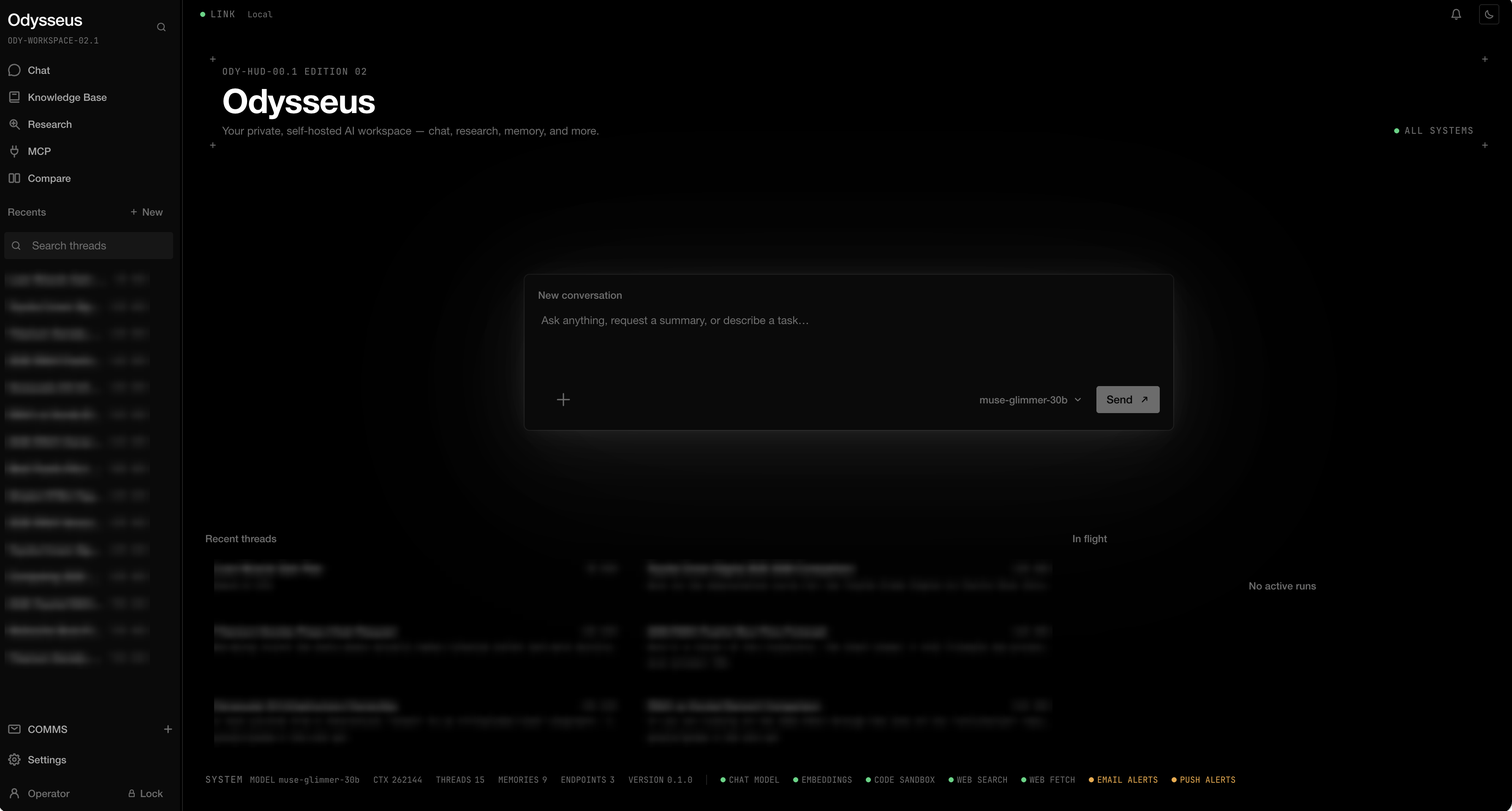
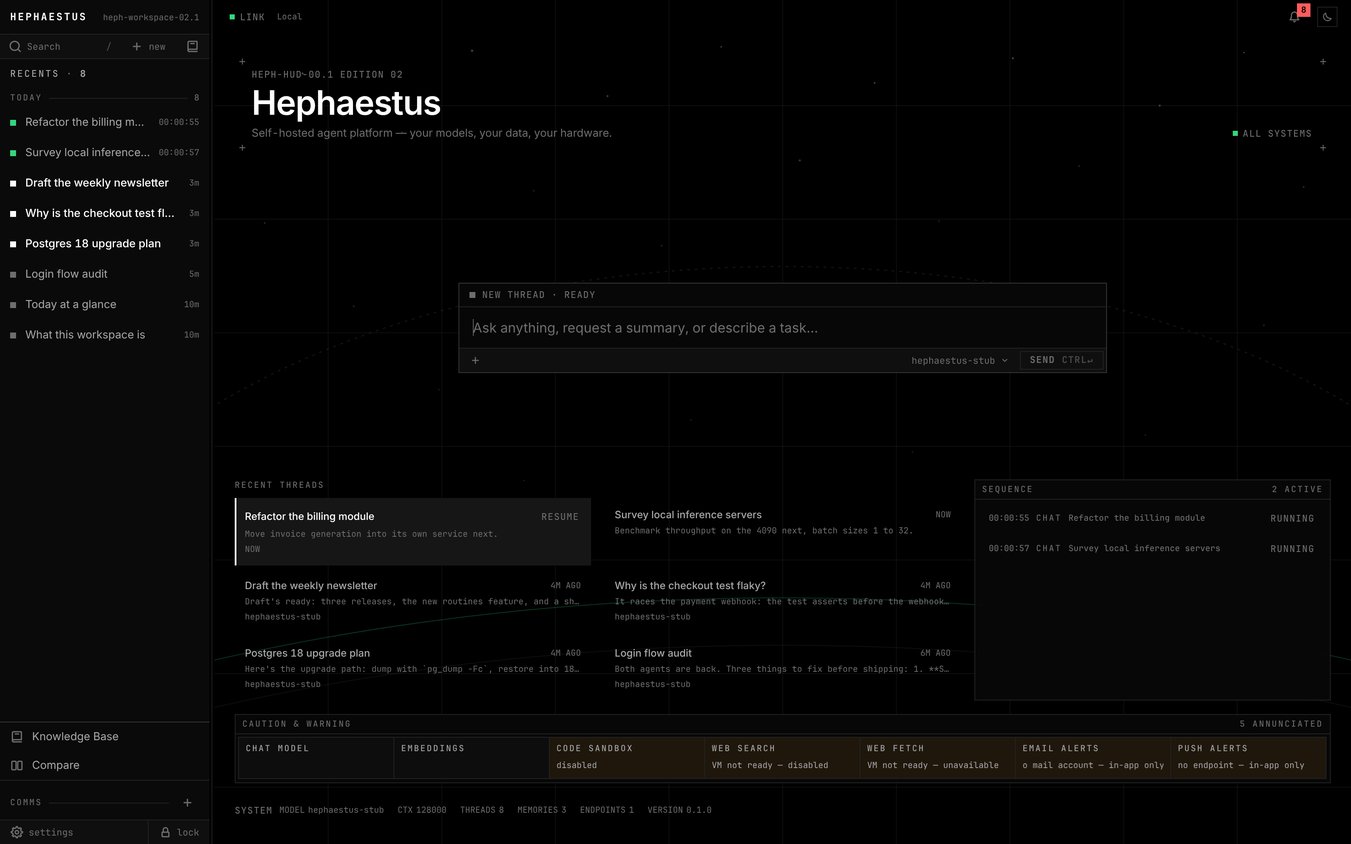
Rewrote the README for the agent platform and retook its screenshot
- The README leads with a console-style readout and covers agents, delegation,
  plugins, skills, routines, platform search, the VM and per-endpoint queueing.
- The screenshot is the home page with threads and runs in flight.
- The home page tagline now describes the platform.

diff --git a/frontend/src/features/dashboard/screens/DashboardScreen.tsx b/frontend/src/features/dashboard/screens/DashboardScreen.tsx
@@ -195,7 +195,7 @@ export function DashboardScreen(): JSX.Element {
     <div class="flex min-h-full flex-col gap-6">
       <PageHeader
         title="Hephaestus"
-        subtitle="Your private, self-hosted AI workspace — chat, code, memory, and more."
+        subtitle="Self-hosted agent platform — your models, your data, your hardware."
         assetId="HEPH-HUD-00.1 EDITION 02"
         actions={
           <Show

diff --git a/README.md b/README.md
@@ -1,185 +1,168 @@
 # Hephaestus
-───────────────────────────────────────────────
-
- ⊹ ࣪ ˖ ૮( ˶ᵔ ᵕ ᵔ˶ )っ  Hephaestus (formerly Odysseus)
-
-───────────────────────────────────────────────
-
-A self-hosted agent platform that runs on your own hardware against your own data: a legion of language models that carry out your bidding, so you can build and ship things far larger than one person could alone. Local-first, encrypted at rest, built for personal use (1 user).
-
-![Hephaestus — the home overview: the launchpad composer, recent threads, in-flight runs, and live per-capability status along the bottom. Thread titles and previews are blurred; this is a live workspace.](md-assets/hephaestus-screenshot.png)
-
-I rebuilt the entire platform on top of **Pydantic AI + FastAPI**. The agent loop is done and so is most of the workspace around it: chat with sub-agents, a knowledge base, email, calendar, routines, projects the agent works in directly, memory, MCP, a secrets vault, and encrypted backup all run today. What's left is a short list, and it's at the bottom.
-
-## The idea
-
-**Pydantic AI is the engine; the code I wrote around it is the chassis.** All agentic reasoning — the model call, tool selection, typed-arg validation, the within-turn tool→observe→continue loop, retries, fallback, output validation, history processing — runs *through* Pydantic AI. Everything that turns one model run into a durable, observable, resumable product — run lifecycle, the event stream, disconnect-survival and resume, cancellation, timeouts, persistence, access policy, the verifier/loop-break meta-loop — is what I built. Like I said up top, Hephaestus assumes one powerful local host, a single operator, and models capable of native tool calling.
-
-## What runs today
-
-**The core loop.**
-
-- **Chat.** Every message runs the full agent path rather than a pre-classified route: the model sees the whole permitted tool catalog and decides what to call. Replies stream incrementally, survive a disconnect, and resume on reconnect. Conversations branch through regenerate, edit, and rewind.
-- **The agent engine.** A Pydantic AI `Agent` driven node by node, wrapped in a meta-loop — an always-on no-progress guard plus an opt-in post-turn verifier — with first-turn auto-titling.
-- **Sensitive-action approval.** A powerful tool call parks the run and asks before it executes; approving or denying resumes it. Approvals can be scoped to a conversation, and those grants are listable and revocable.
-- **The agent's task list.** The model keeps a visible plan for the turn, streamed as it mutates.
-- **Conversation compaction.** The one context reduction in the product, and it fires on measured pressure: when a thread reaches your share of the model's context window, earlier turns fold into a utility-model summary and the chat carries on. The transcript keeps everything — only the model's replay narrows.
-
-**Work surfaces.**
-
-- **Projects.** A project is a directory you work in, and the whole app scopes to it. A chat filed under a project works in that folder, on the branch you have checked out, one chat at a time. When the work should stay apart from yours, the agent moves the chat onto a git worktree on a branch named for the thread, which reaches your folder only through a merge you press. Deleting a thread with unmerged commits is refused unless you say to discard it.
-- **Sandboxed code, the View, and previews.** The agent runs code in a platform microVM, confined to its own conversation's workspace, that fails closed and never touches the host, and publishes output to the View — one versioned surface where each result is a snapshot you can star and return to, optionally fronted by a live reverse-proxied head.
-- **Agents.** Write your own agents — a standing brief, a model, the tools it may use and how far it may reach — and run any chat with one, or let agents delegate to them. The agent can draft new ones too, which stay inert until you publish them. A project's `.claude/agents/*.md` files join the catalog while you work in it.
-- **Research, through sub-agents.** Any chat can investigate a question by fanning out parallel researcher sub-agents that cite the page behind every claim. It stays a conversation, so you can push back halfway through.
-- **Knowledge Base.** Point it at folders of your own documents and retrieve from them by meaning; sources, index stats, reindex and rebuild are all yours to drive.
-- **Uploads.** Files as context, through a sealed file store with off-request text extraction, corpus-indexed.
-- **Compare.** One prompt fanned to two models side by side — each pane a real, resumable conversation rather than a preview.
-- **Skills.** Know-how the agent opens when a task calls for it: built-in skills that ship with the app (research, delegation, building agents and plugins), a project's own `.claude/skills`, and skills you or the agent save.
-
-**Reach.**
-
-- **Web search and fetch.** A managed SearXNG instance with no operator setup, plus a headless browser in the platform VM that renders a page to Markdown. SSRF-guarded on every request; untrusted content is marked as data before it reaches a prompt.
-- **Email.** Multiple accounts over IMAP/SMTP, Gmail, Microsoft Graph or JMAP, with OAuth where the provider wants it — plus AI triage (urgency, tagging, summaries) and reply drafts that match how you actually write.
-- **Calendar.** Local-first, with CalDAV sync, `.ics` import/export, recurrence, and natural-language entry — "lunch Friday 1pm" becomes a draft, with the model reading the phrase and the code doing the date arithmetic.
-- **Routines.** Scheduled and webhook-triggered work that runs on time, each run by the agent you pick in a thread of its own, within a pre-authorized scope. Schedules can be typed as a phrase ("every weekday at 9"), agents can draft routines for you to approve, and plugins can offer them as templates. An out-of-scope sensitive action still parks for approval exactly like an interactive run.
-- **Notifications.** A second, separately-versioned event stream for approvals, failures, completions and reminders — and the two worth interrupting you for (an approval request and a reminder) also go out by email through your own connected mailbox and by push to whatever notifier you already run.
-- **MCP.** Register external tool servers; their tools are sensitive by default until you trust them.
-- **Integrations.** Preset connectors to third-party HTTP services, with encrypted credentials.
-
-**Your controls.**
-
-- **Model registry.** Named roles (`main`, `utility`, `embedding`) map to ordered fallback chains; endpoints discover their served models at runtime; conversations can override the model; keys are encrypted at rest. Each endpoint is typed by a provider adapter — OpenAI-compatible, or native Anthropic/Google.
-- **Long-term memory.** Store, view, edit and delete entries, with hybrid semantic-plus-keyword recall that degrades to keyword-only when the vector store is unavailable.
-- **Tool catalog.** Every registered tool is listed and individually switchable.
-- **Offline mode.** Manual or auto-detected; web capabilities suspend themselves and say so.
-- **Vault.** A password manager layered on the at-rest encryption; agent access is approval-gated.
-- **API tokens.** Scoped tokens and inbound webhooks for programmatic access.
-- **Backup and restore.** Encrypted export under a separate backup secret, with merge-import that avoids duplicates.
-- **Health.** Per-capability status covering model, embeddings, sandbox and search, derived in the backend and rendered on the home page.
-- **Auth and at-rest encryption.** A global auth gate (cookie or bearer); all user data AES-256 encrypted under a password-derived, memory-only, lock-until-unlocked key.
-
-## What's left
-
-- **Routine depth** — chaining one routine into another, and event triggers beyond the inbound webhook.
-- **The health screen** — it's the one surface still on fixtures. It wants per-service latency, a baseline and a status history, and the backend measures none of those yet. Real capability health lives at `/overview` and the home page renders it.
-
-## Out of scope, on purpose
-
-Some things were built and then deliberately removed, because they were redundant, better done elsewhere, or not worth their maintenance:
-
-- **Local model serving and the "Cookbook."** Hephaestus no longer downloads, quantizes or serves models. It works off **endpoints** — you point it at LM Studio, vLLM, llama.cpp or a hosted provider, and the registry takes it from there. Serving models was a second product wearing this one's clothes.
-- **The document editor, the gallery, the in-browser code runner, and the operator's host shell.** The agent still writes files, runs code, and works a real terminal inside a project worktree; what went away was the standalone UI for each.
-
-## Architecture
-
-There are two halves, kept cleanly separate: the frontend renders and captures intent, and **all the logic lives in the backend.** See [`docs/architecture/`](docs/architecture/README.md) for the full design and [`docs/architecture/decisions.md`](docs/architecture/decisions.md) for every decision and its trade-offs.
 
 ```
-frontend/     SolidJS / SolidStart SPA · TypeScript · Tailwind v4 · Vite
-              Instrument design system (Ink / Paper) · typed model.ts/data.ts seam;
-              every surface wired to the real backend except the health screen
-
-backend/      Pydantic AI + FastAPI  (Python 3.14, uv-managed)
-  app.py        FastAPI assembly: middleware, auth gate, router registration, shared singletons
-  harness/      app-assembly substrate: feature manifests, discovery, start/stop lifecycle ordering
-  core/         foundation: config · db · crypto/vault (at-rest encryption) · auth · write-behind
-                worker · untrusted-content marking · SSRF guard · exceptions
-  models/       SQLModel entities + schema (owner seam · per-column encryption · branch tree)
-  runs/         Pillars I+II — the Run substrate + the frozen v1 event protocol
-  agent/        Pillar III — the engine: orchestrator · node→event translator · meta-loop ·
-                namer · compaction
-  prompts/      the prompt library, split by durability (system_prompt vs instructions)
-  tools/        Pillar III — the agent's tool catalog: namespacing + enable gate + thin adapters
-  services/     capabilities: llm/registry · providers · memory · conversations · sandbox ·
-                search · webfetch · corpus · projects · mail · calendar · skills · mcp ·
-                integrations · backup · scheduler · notifications · vault
-  routes/       thin FastAPI routers, one per surface (overview is the home aggregate)
-  migrations/   Alembic — schema auto-upgraded to head on startup
-  evals/        retrieval + end-to-end evaluation harness
-  tests/
-
-docs/architecture/  backend design — the engine/chassis split, the three pillars, and the
-                    D-numbered decision register (including the angles that were rejected)
-docs/design-system.md  the frontend's visual language
+HEPH-HUD ── AGENT PLATFORM ─────────────────────────────────── ■ ALL SYSTEMS
+  HOST      self-hosted · single operator · your hardware
+  DATA      AES-256 at rest · key derived from your password, held in memory
+  AGENTS    define · delegate · message · open any sub-agent as a thread
+  EXTEND    plugins · skills · routines · workflows
+  CONTEXT   searched on demand · never injected
+  MODELS    any OpenAI-compatible, Anthropic or Google endpoint
+────────────────────────────────────────────────────────────────────────────
 ```
 
-The central abstraction is a **Run**: one server-side, background-executing unit of work for a single request. Chat turns and agent tasks are all Runs, so I only have to write continuity, resume, cancellation, timeouts, and metrics **once** — everything inherits them. The backend is an **origin-agnostic API**: it makes no assumption about who serves the frontend. The whole thing rests on three pillars — the Run substrate, the event protocol, and the agent engine plus tools — detailed in [`docs/architecture/README.md`](docs/architecture/README.md). The tool layer has its own write-up in [`docs/architecture/40-tools-and-toolsets.md`](docs/architecture/40-tools-and-toolsets.md).
+Hephaestus is a self-hosted agent platform. You hand it work; agents plan it, split it between them, carry it out, and write the tools they are missing along the way. One agent stays in charge of each conversation and answers to you. Nothing an agent builds for itself (a new agent, a plugin, a skill, a routine) goes live until you approve it.
+
+![The Hephaestus home page: the launch composer, recent threads, two runs in flight in the sequence panel, and per-capability status along the bottom.](md-assets/hephaestus-screenshot.png)
+
+<sub>Captured on the disposable dev instance with a scripted model. The amber cells are real: that instance runs without the platform VM.</sub>
+
+It is built for **one operator on one powerful machine**, and it assumes models capable of native tool calling.
+
+## What it does
+
+### Agents that work together
+
+- **One chat, every capability.** There are no modes. Every message runs the full agent loop over the whole tool catalog your permission level allows: files, a shell, web search, memory, email, calendar, and the rest. The tools a chat doesn't need yet stay out of its context until it searches for them.
+- **Agents you define.** An agent is a standing brief plus limits: its model, the tools it may use, how far it may reach without asking, and whether it may delegate. Write them yourself, drop them into a project's `.claude/agents/`, or let an agent draft one for you to publish. Start any chat with any agent.
+- **Delegation trees.** An agent can spawn others to do self-contained work in parallel, to any depth you allow. Spawning never blocks: reports arrive on their own and wake the thread that asked. Agents in one tree can message each other, so one can point a sibling at the gap it found.
+- **Every sub-agent is a thread.** Open any sub-agent as its own conversation, read what it did, and talk to it directly while its report still goes to its parent.
+- **Per-endpoint queueing.** Each model endpoint has a capacity. Runs past it wait their turn, your own messages first, and a parent can never deadlock against a child waiting on the same endpoint.
+
+### A platform that extends itself
+
+- **Plugins.** Agents write tools in Python, test them in the platform VM, and hand them to you. Once you publish one, its tools join the catalog. A plugin declares the only hosts it can reach and the secrets it needs. Its code never sees a secret's value: the egress gateway swaps it in, and only toward that secret's own host.
+- **Skills.** Know-how that loads on demand instead of living in the system prompt. Four ship with the app (`research`, `delegation`, `build-an-agent`, `build-a-plugin`). A project's `.claude/skills/` join them, and you or the agent can save more. The prompt names only the built-in four; the rest are found by search.
+- **Routines.** Scheduled or webhook-triggered work, run by the agent you choose, on time. Each run opens a thread of its own, runs in slots reserved for routines, and never waits behind your chats. Type a schedule as a phrase ("every weekday at 9"). Agents can draft routines for you to approve, and plugins can offer them as templates.
+- **Workflows.** Slash commands you write once and reuse in any chat.
+
+### Context on demand
+
+A conversation's context holds only that conversation. Everything else is searched when it's needed rather than injected up front, so the context doesn't grow with your history:
+
+- **`platform_search`** reaches other conversations, memory, your indexed files, work summaries, sub-agent reports, routine outputs, and the skill, agent and plugin catalogs. Its index is built in memory at unlock, so nothing is stored in plaintext on disk.
+- **Memory.** Durable facts the agent keeps unprompted (preferences, projects, people, constraints), and you can view, edit and delete them.
+- **Knowledge Base.** Point it at folders of your documents and retrieve from them by meaning.
+- **Compaction.** When a thread nears its model's context window, its earlier turns fold into a summary and the chat carries on. The transcript keeps everything.
+
+### Where the work happens
+
+- **Projects.** A chat filed under a project works directly in that folder, on the branch you have checked out, with writes governed by your permission level. When the work should stay apart, the agent moves the chat onto its own git worktree, which reaches your folder only through a merge you press.
+- **The platform VM.** One microVM runs the code sandbox, the project shell, headless Chromium and a managed SearXNG. No host directory is mounted into it: files are piped in for the task at hand and piped back out, and its only network exit is an allowlisting gateway on the host.
+- **The View.** One surface where the agent shows its output, a file or a live server, as snapshots you can star and come back to.
+- **Compare.** One prompt sent to two models side by side, each pane a real, resumable conversation.
+
+### Reach
+
+- **Web search and fetch** through the VM's SearXNG and browser, with SSRF guards on every request. Fetched content is marked as untrusted data before it reaches a prompt.
+- **Email** over IMAP/SMTP, Gmail, Microsoft Graph or JMAP, with AI triage and drafts that match how you write.
+- **Calendar**: local-first, with CalDAV sync, `.ics` import and export, recurrence, and natural-language entry.
+- **MCP servers** and **preset integrations**, sensitive by default until you trust them.
+- **Notifications** for approvals, failures, completions and reminders. The two worth interrupting you for also go out by email and push.
+
+### Your controls
+
+- **Permission levels**, from plan-only to fully autonomous, decide what the agent may do without asking. Anything that leaves the box (your host, your real files, email, the vault, a new domain) pauses for your approval.
+- **Model registry.** Named roles map to ordered fallback chains across OpenAI-compatible, Anthropic and Google endpoints, and each agent can run on its own.
+- **Vault, API tokens, backup.** A password manager the agent can reach only with approval, scoped tokens and inbound webhooks, and encrypted backup and restore.
+- **Offline mode**, manual or auto-detected. Web capabilities suspend themselves and say so.
+
+## How it's built
+
+**Pydantic AI is the engine, and the code around it is the chassis.** The model call, tool selection, argument validation, the tool loop, retries and fallback all run through Pydantic AI. Everything that turns a model run into a durable product is the chassis: run lifecycle, the event stream, surviving a disconnect, resume, cancellation, lanes and queues, persistence, access policy, and the verifier.
+
+The central abstraction is the **Run**: one server-side, background unit of work. Chat turns, sub-agent turns, routine runs and wakes are all Runs, so continuity, cancellation, timeouts and metrics are written once. The backend is an origin-agnostic API, and **all logic lives there**; the frontend renders and captures intent.
+
+```
+frontend/   SolidStart SPA · TypeScript · Tailwind v4 · Vite
+backend/    Pydantic AI + FastAPI (Python 3.14, uv)
+  agent/      the engine: orchestrator, event translation, meta-loop, compaction
+  runs/       the Run substrate, lanes, endpoint queues, the v1 event protocol
+  tools/      the agent's tool catalog and its gates
+  services/   capabilities: agents, plugins, skills, routines, vm, corpus, mail, …
+  harness/    feature manifests and start/stop lifecycle
+  skills/     the built-in skills
+  vm/         the platform VM's image and guest agent
+docs/       architecture, the decision register, the design system
+```
+
+The full design is in [`docs/architecture/`](docs/architecture/README.md). Every decision with real trade-offs is in [`docs/architecture/decisions.md`](docs/architecture/decisions.md), with the alternatives that were rejected. The visual language is in [`docs/design-system.md`](docs/design-system.md).
 
 ## Running it
 
-**Backend** (requires [uv](https://docs.astral.sh/uv/)) — platform-agnostic (Linux / macOS / POSIX), no OS-specific dependency:
+**Backend** (needs [uv](https://docs.astral.sh/uv/)):
+
 ```bash
 cd backend
-uv sync                                       # creates .venv (Python 3.14), installs deps
-uv run python dev.py                          # http://localhost:8000  (/health to check)
-uv run pytest                                 # the test suite (fans out across cores)
-uv run ruff check .                           # lint
+uv sync                 # Python 3.14 virtualenv and dependencies
+uv run python dev.py    # http://localhost:8000, with auto-reload
+uv run pytest           # the test suite
+uv run ruff check .     # lint
 ```
-`dev.py` is `uvicorn app:app` with auto-reload, minus the directories that hold runtime state rather than source. To run without reload (production), use `uv run uvicorn app:app` directly.
 
-On first run, create the operator account via the frontend (the password you choose also derives the at-rest encryption key). [QEMU](https://www.qemu.org) is needed for the platform VM, which runs the code sandbox, the project shell, web fetch and managed web search (KVM on Linux or Hypervisor.framework on macOS makes it fast; without either it still runs, slowly). The first boot builds the VM's image once, which takes several minutes and needs internet access. Without the VM, those capabilities report unavailable rather than falling back to the host.
+**Frontend** (needs [bun](https://bun.sh)):
 
-**Frontend** (requires [bun](https://bun.sh)):
 ```bash
 cd frontend
 bun install
-bun run dev         # http://localhost:5173
-bun run typecheck   # tsc --noEmit (scoped to src/)
-bun run lint        # eslint + prettier --check
-bun run test        # the fast unit suite
+bun run dev             # http://localhost:5173
+bun run typecheck && bun run lint && bun run test
 ```
 
-**A disposable instance to develop against.** A second Hephaestus with its own data directory, its own ports, its own platform VM (off unless `up --with-vm`) and a scripted model behind it — seeded on first use, safe to break, and separate from the workspace above:
+On first launch, create the operator account in the browser. The password you choose also derives the encryption key.
+
+The platform VM needs [QEMU](https://www.qemu.org). With KVM on Linux or Hypervisor.framework on macOS it is fast; without either it still runs, slowly. Its first boot builds the guest image once, which takes several minutes and needs internet access. Without the VM, the sandbox, project shell, web search and fetch report themselves unavailable; nothing falls back to the host.
+
+You point Hephaestus at model endpoints you already run (LM Studio, vLLM, llama.cpp) or at a hosted provider. It does not download or serve models itself.
+
+**A disposable instance for development.** A second Hephaestus with its own data, ports and VM, a scripted model behind it, seeded on first use and safe to break:
+
 ```bash
 cd backend
-uv run python dev_instance.py up --detach     # starts everything and prints the URLs
-uv run python dev_instance.py status --json   # its ports (they differ per git worktree)
+uv run python dev_instance.py up --detach     # start everything, print the URLs
+uv run python dev_instance.py status --json   # ports differ per git worktree
 uv run python dev_instance.py reset --yes     # wipe it; the next `up` re-seeds
 ```
-It lives under `~/.hephaestus/dev/<worktree>/`, needs no login, and points at a stub model unless `HEPH_DEV_CHAT_BASE_URL`/`_MODEL`/`_KEY` name a real endpoint. Full recipe in [`docs/dev-instance.md`](docs/dev-instance.md).
 
-> **NOTE — `alembic` by hand.** The CLI falls back to `alembic.ini`, which points at the live `data/app.db`. A command meant for a dev instance must carry that instance's `HEPHAESTUS_DB_URL` (`status --json` has the data directory) or it will migrate the real database.
+The full recipe, including scripting the model's replies, is in [`docs/dev-instance.md`](docs/dev-instance.md).
 
-> **NOTE — fonts.** UI typography is fully self-hosted: **JetBrains Mono** is served as a Nerd Font build (subset to the ranges the UI uses plus Braille Patterns), so the spinners' **Braille** glyphs render natively — nothing to install. The mono font is regenerated by `bun run build:fonts` in `frontend/` (needs `python3` with `fonttools` + `brotli`).
+> **Running `alembic` by hand:** the CLI falls back to `alembic.ini`, which points at the live `data/app.db`. Set `HEPHAESTUS_DB_URL` to aim it anywhere else.
 
-## Security & privacy
+## Security and privacy
 
-Hephaestus can do powerful things on your machine — sandboxed and (with approval) host code execution, file writes, email, web research — so I don't treat security as an afterthought. The full details are in [SECURITY.md](SECURITY.md).
+Hephaestus runs code, writes files and sends email on your behalf, so its security model is designed rather than bolted on. The details are in [SECURITY.md](SECURITY.md).
 
-- **Single operator.** All data and features belong to *you* — the sole user. Every request is authenticated before any feature is reached; every record is owner-stamped against a future multi-user seam.
-- **A blast radius, not a cage.** Every agent workspace is disposable — a copy in the platform VM, or a git worktree on a throwaway branch — so computing, installing packages and reaching a package registry cost nothing and feel like nothing. What is guarded is the small set of ways out of it.
-- **The exits require approval.** The agent pauses and asks before anything that leaves the box: changing your host, writing your real files, sending email, configuration, vault, or reaching a domain the allowlist doesn't name (asked per request, never granted standing). Running code in the agent's own workspace is *not* sensitive; a coding thread's shell asks once, at its first command, and then works freely on its own branch.
-- **One fence, tuned for exfiltration.** Agent commands run in a microVM that holds only the workspaces in use and has no network of its own: its one exit is an allowlisting gateway on the host, which also refuses your LAN and the host itself. An approved host command runs under OS-level confinement (seatbelt on macOS, bubblewrap on Linux) that hides your credential paths and the data directory, reading the same domain list. Where the VM can't start, the agent's shell refuses to run at all — but an approved host command still runs, and says so in its result, because that one command is one you read and approved.
-- **Edits to your checkout follow your permission level.** A project chat edits your folder directly, so Manual asks before every write and Edit and above write freely; only one chat holds a folder at a time. Work the agent moves to a worktree reaches your folder only through a merge you press. A delegated sub-agent can get its own fork of a worktree, and its work comes back through a merge that reports conflicts instead of overwriting.
-- **Encrypted at rest.** All user data is AES-256 encrypted; auth secrets are one-way hashed. The key is derived from your password and lives only in memory — no OS keystore, nothing readable on disk, re-locked on restart.
-- **Untrusted content is data, not instructions.** External content (web pages, fetched URLs, files) is wrapped and marked so the model treats it as data before it enters a prompt.
-- **Local-first.** Nothing leaves the machine unless you configure an external provider or integration.
-- Serve plain HTTP only on `localhost`/trusted LAN; put a TLS-terminating reverse proxy in front for anything reachable beyond your machine.
+- **One operator.** Every request is authenticated before it reaches a feature, and every record carries its owner.
+- **A blast radius, not a cage.** Agent workspaces are disposable, either a copy in the VM or a git worktree on a throwaway branch, so computing and installing cost nothing. What is guarded is the way out.
+- **The exits ask first.** Changing your host, writing your real files, sending mail, touching the vault or reaching a domain the allowlist doesn't name all pause for approval.
+- **What agents build waits for you.** New agents, plugins, skills and routines are drafts until you publish them, and changing a published one asks again.
+- **Encrypted at rest.** All user data is AES-256 encrypted under a key derived from your password that lives only in memory and is gone on restart.
+- **Untrusted content is data.** Web pages, files, tool output and other agents' reports are fenced so the model treats them as material, not instructions.
+- **Local-first.** Nothing leaves your machine unless you configure a provider or integration that sends it.
 
-## Data
+Serve plain HTTP only on `localhost` or a trusted LAN. Put a TLS-terminating reverse proxy in front of anything reachable beyond that.
 
-All user data lives under `data/` and is **gitignored** — databases, uploads, keys, generated media. Never commit anything from `data/`, `.env`, or `logs/`.
+All user data lives under `data/`, which is gitignored. Never commit anything from `data/`, `.env` or `logs/`.
+
+## What's left
+
+- **Routine depth:** chaining one routine into another, and event triggers beyond the inbound webhook.
+- **The health screen** still renders fixtures. Real capability health is on the home page.
 
 ## Contributing
 
-It's still early days, but help is more than welcome. There are exactly two authoritative inputs: the [architecture and its decision register](docs/architecture/README.md) (the *how* and the *why*), and the capabilities of FastAPI + Pydantic AI. The black-box spec this rebuild was seeded from has been **retired** — it kept the rebuild on track and the build outgrew it; a requirements document that no longer leads the code is one that quietly lies about it. Requirement ids (`XC-*`, `AE-*`, `DR-*`) still appear in docstrings here and there: they're historical, and where one disagrees with the code, **the code is right**. I don't use the deleted pre-reset code as a reference either — PewDiePie's original was vibe-coded.
+Help is welcome. The two sources of truth are the [architecture and its decision register](docs/architecture/README.md) and the capabilities of FastAPI and Pydantic AI. Requirement ids (`XC-*`, `AE-*`, `DR-*`) still appear in docstrings from the spec this rebuild started from. They are historical; where one disagrees with the code, the code is right.
 
-A decision with real trade-offs belongs in `docs/architecture/decisions.md`, along with the angles that were rejected — git is the audit trail, and the rejected angles are what a future reader would otherwise have to re-derive.
+A decision with real trade-offs belongs in `docs/architecture/decisions.md`, along with the angles that were rejected.
+
+## Lineage
+
+Hephaestus began as **Odysseus**, a rebuild of PewDiePie's original self-hosted workspace on Pydantic AI and FastAPI. It outgrew the name once it became a platform for agents rather than a workspace for one assistant. See [ACKNOWLEDGMENTS.md](ACKNOWLEDGMENTS.md).
 
 ## License
-MIT — see [LICENSE](LICENSE) and [ACKNOWLEDGMENTS.md](ACKNOWLEDGMENTS.md).
+
+MIT. See [LICENSE](LICENSE).
 
 ```
-                                  |
-                                 |||
-                                |||||
-                  |    |    |   |||||||
-                 )_)  )_)  )_)   ~|~
-                )___))___))___)\  |
-               )____)____)_____)\\|
-             _____|____|____|_____\\\__
-             \                       /
-       ~^~^~~^~^~~^~^~~^~^~~^~^~~^~^~~^~^~~^~^~
-               ~^~  all aboard!  ~^~
-       ~^~^~~^~^~~^~^~~^~^~~^~^~~^~^~~^~^~~^~^~
+SYSTEM  HEPHAESTUS · MIT · SELF-HOSTED ─────────────────────────────── ■ READY
 ```

diff --git a/docs/architecture/decisions.md b/docs/architecture/decisions.md
@@ -1062,4 +1062,4 @@ reason: what a section is when nobody is searching must not be a function of a q
   - **Only the platform's skills are listed in the brief**, one line each: a handful, changing only with a release, so the block caches. Everything else is a count, the pinned few, and a pointer to `platform_search` (D118).
   - **The first four:** `research` (the method `RESEARCH_MODE` carried, D58), `delegation` (when to delegate, writing a brief that stands alone, checking reports before relaying them), `build-an-agent` and `build-a-plugin` (the formats and the draft-then-publish flow).
   - **The system prompt only points at them:** delegation exists, open `research` for investigations and `delegation` before splitting work, and search the platform before claiming not to know. No method essays go into `INSTRUCTIONS`.
-- **D125 — The project is Hephaestus 🟢 DECIDED.** The original Odysseus was a workspace; what grew here is a forge: many agents working for one operator, building their own tools. The smith god who forged his own attendants names that. Everything that carried the old name was renamed, with no compatibility layer: `HEPHAESTUS_*` settings, `~/.hephaestus/` for worktrees and dev instances, the `heph-` design prefix and `heph.` browser storage keys, the session cookie, and the backup format tag (`hephaestus-backup`; an Odysseus backup does not restore). The one migration is worktree branches: their names are derived from the thread id, so on boot each project's `ody/*` branches are renamed to `heph/*` (`services/projects/legacy_branches.py`), and the worktrees using them follow.
+- **D125 — The project is Hephaestus 🟢 DECIDED.** The original Odysseus was a workspace for one assistant; what grew here is a platform where many agents work for one operator and build their own tools, and the name follows that. Everything that carried the old name was renamed, with no compatibility layer: `HEPHAESTUS_*` settings, `~/.hephaestus/` for worktrees and dev instances, the `heph-` design prefix and `heph.` browser storage keys, the session cookie, and the backup format tag (`hephaestus-backup`; an Odysseus backup does not restore). The one migration is worktree branches: their names are derived from the thread id, so on boot each project's `ody/*` branches are renamed to `heph/*` (`services/projects/legacy_branches.py`), and the worktrees using them follow.
